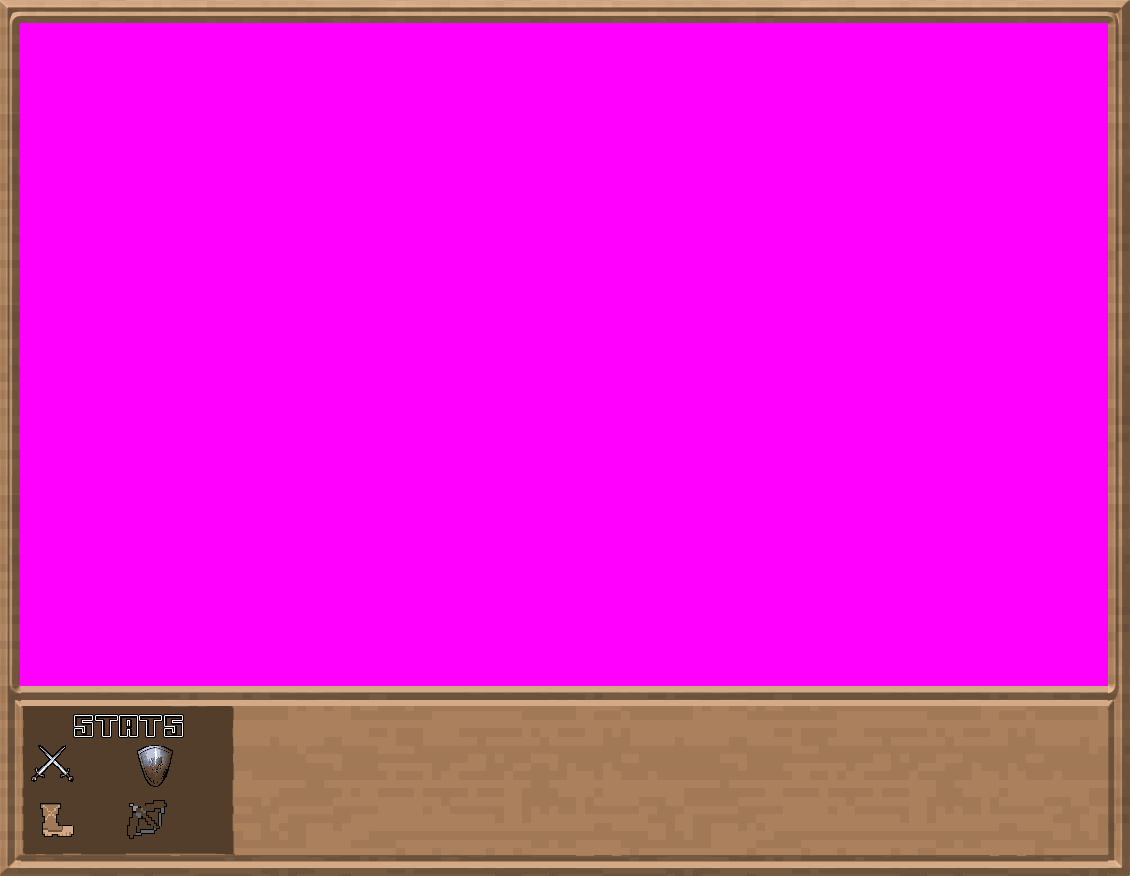
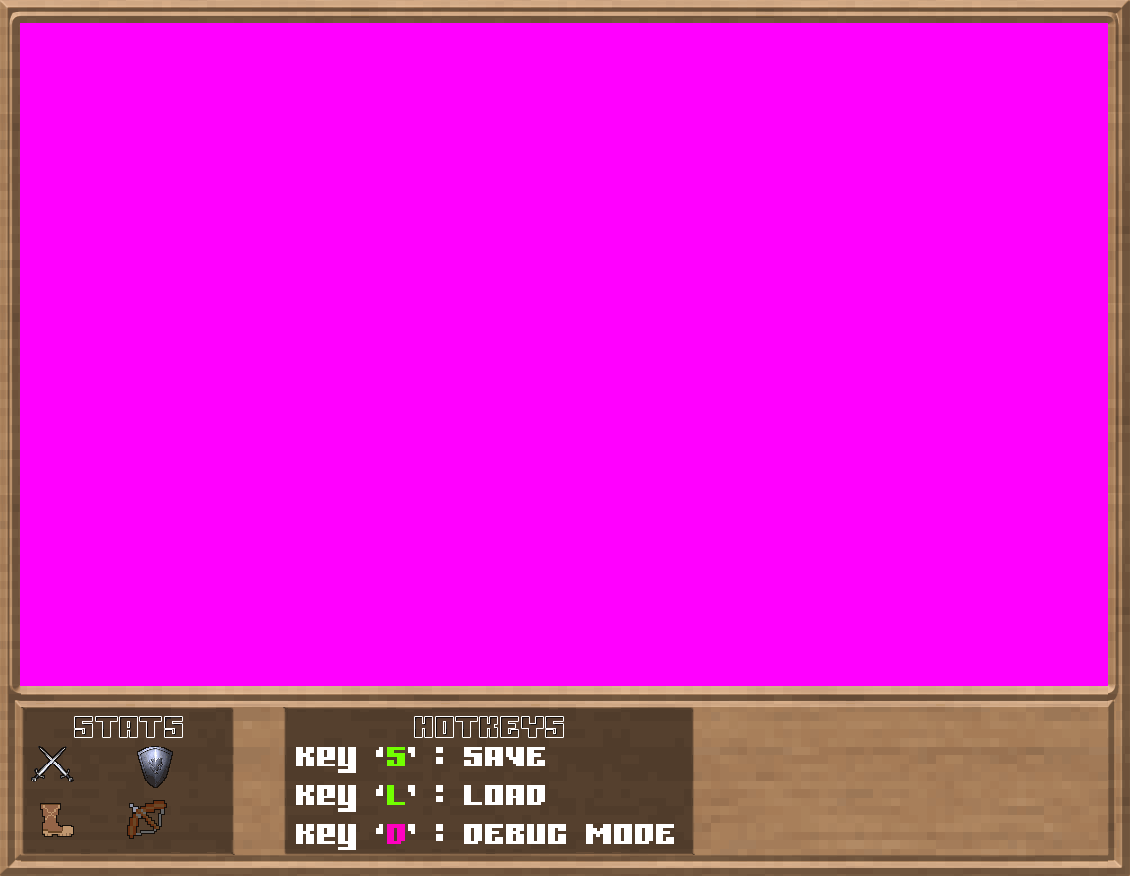
Important Updates
Added render offset
Added load level key
Improved focused unit stats rendering
Improved UI

Changed region(s): [[0.031, 0.7705, 0.9602, 0.9863]]

diff --git a/src/com/pxcode/entity/unit/Unit.java b/src/com/pxcode/entity/unit/Unit.java
@@ -42,13 +42,11 @@ public abstract class Unit implements GameObject {
 		possibilities = new ArrayList<>();
 		if (focusIndicator == null)
 			focusIndicator = Game.loadImage("res/focusIndicator.png");
-		setTeamIndex((byte)0);
+		setTeamIndex((byte) 0);
 		if (x > Game.WIDTH / 2) {
-			setTeamIndex((byte)1);
+			setTeamIndex((byte) 1);
 			flip();
 		}
-
-		Game.instance.hud.addUnitStats(this);
 	}
 
 	public Unit(int index, byte teamIndex, Stats stats, Point pos, BufferedImage sprite) {
@@ -62,7 +60,6 @@ public abstract class Unit implements GameObject {
 			focusIndicator = Game.loadImage("res/focusIndicator.png");
 		if (pos.x > Game.WIDTH / 2)
 			flip();
-		Game.instance.hud.addUnitStats(this);
 	}
 
 	public int getIndex() {
@@ -142,43 +139,48 @@ public abstract class Unit implements GameObject {
 		int healthToY = (int) ((100 - stats.getHealth()) * 48 * 0.01);
 		int fillY = 48 - healthToY;
 		healthToY += 21;
-
-		Rectangle rect = new Rectangle(pos.x + xOffset, pos.y + 20, 10, 50);
+		
+		Rectangle rect = new Rectangle(pos.x + xOffset, pos.y + 20 + Game.PLATFORM_Y_OFFSET, 10,
+				50 + Game.PLATFORM_Y_OFFSET);
 		// DRAWING BORDER with BLACK COLOR
 		renderer.renderRectangle(rect, 0x0);
 		// DRAWING BACKGROUND with RED COLOR
-		rect = new Rectangle(pos.x + xOffset + 1, pos.y + 21, 8, 48);
+		rect = new Rectangle(pos.x + xOffset + 1, pos.y + 21 + Game.PLATFORM_Y_OFFSET, 8, 48 + Game.PLATFORM_Y_OFFSET);
 		renderer.renderRectangle(rect, 0xFF0000);
 		// DRAWING HEALTH with GREEN COLOR
-		rect = new Rectangle(pos.x + xOffset + 1, pos.y + healthToY, 8, fillY);
+		rect = new Rectangle(pos.x + xOffset + 1, pos.y + healthToY + Game.PLATFORM_Y_OFFSET, 8,
+				fillY + Game.PLATFORM_Y_OFFSET);
 		renderer.renderRectangle(rect, 0x00FF00);
 	}
 
 	@Override
 	public void render(Renderer renderer) {
-		renderer.renderImage(teamIndicator, pos.x, pos.y);
-		renderer.renderImage(sprite, pos.x, pos.y);
+		renderer.renderImage(teamIndicator, pos.x, pos.y, 0, Game.PLATFORM_Y_OFFSET);
+		renderer.renderImage(sprite, pos.x, pos.y, 0, Game.PLATFORM_Y_OFFSET);
 		renderStats(renderer);
 		if (isFocused) {
-			renderer.renderImage(focusIndicator, pos.x, pos.y);
+			renderer.renderImage(focusIndicator, pos.x, pos.y, 0, Game.PLATFORM_Y_OFFSET);
 		}
 	}
 
 	@Override
 	public void update() {
-		Game.instance.hud.updateUnitStats(this);
+		if (isFocused)
+			Game.instance.hud.updateUnitStats(stats);
 	}
 
 	public void focus() {
 		isFocused = true;
 		unitFocused = true;
 		Unit.focusedUnit = this;
+		Game.instance.hud.addUnitStats(stats);
 	}
 
 	public void unfocus() {
 		isFocused = false;
 		unitFocused = false;
 		Unit.focusedUnit = null;
+		Game.instance.hud.removeUnitStats();
 	}
 
 	private void setPossibility(Game game, List<Tile> list, int index) {
@@ -262,7 +264,7 @@ public abstract class Unit implements GameObject {
 
 	public void die() {
 		isDead = true;
-		Game.instance.hud.removeUnitStats(this);
+		Game.instance.hud.removeUnitStats();
 	}
 
 	public void hurt(float damage) {

diff --git a/src/com/pxcode/graphic/HUD.java b/src/com/pxcode/graphic/HUD.java
@@ -10,18 +10,18 @@ import java.util.HashMap;
 import java.util.Map;
 
 import com.pxcode.entity.GameObject;
+import com.pxcode.entity.unit.Stats;
 import com.pxcode.entity.unit.Unit;
 import com.pxcode.main.Game;
 
 public class HUD implements GameObject {
 
 	private Map<BufferedImage, Point> unitsElements;
-	private Map<Integer, Unit> units;
+	private Stats unitStats;
 	private BufferedImage overlayImage;
 
 	public HUD() {
 		unitsElements = new HashMap<>();
-		units = new HashMap<>();
 		overlayImage = Game.loadImage("res/overlay.png");
 	}
 
@@ -33,26 +33,23 @@ public class HUD implements GameObject {
 		unitsElements.remove(sprite, coord);
 	}
 
-	public void updateUnitStats(Unit unit) {
-		units.remove(unit.getIndex());
-		units.put(unit.getIndex(), unit);
+	public void updateUnitStats(Stats stats) {
+		unitStats = stats;
 	}
 
-	public void addUnitStats(Unit unit) {
-		// add unit
-		units.put(unit.getIndex(), unit);
+	public void addUnitStats(Stats stats) {
+		unitStats = stats;
 	}
 
-	public void removeUnitStats(Unit unit) {
-		// delete unit
-		units.remove(unit.getIndex());
+	public void removeUnitStats() {
+		unitStats = null;
 	}
 
 	@Override
 	public void render(Renderer renderer) {
 		try {
 			unitsElements.forEach((sprite, point) -> {
-				renderer.renderImage(sprite, (int) point.getX(), (int) point.getY());
+				renderer.renderImage(sprite, (int) point.getX(), (int) point.getY(), 0, Game.PLATFORM_Y_OFFSET);
 			});
 			renderer.renderImage(overlayImage, 0, 0);
 		} catch (ConcurrentModificationException e) {
@@ -60,22 +57,19 @@ public class HUD implements GameObject {
 		}
 	}
 
-	public void renderStrings(Graphics2D g) {
-		try {
-			units.forEach((unitIndex, unit) -> {
-				// DRAWING THE UNIT INDEX
-				g.setColor(Color.BLACK);
-				g.drawString(String.valueOf(unit.getIndex()), unit.getX() + 55, unit.getY() + 100);
-				g.setColor(Color.RED);
-				g.drawString(String.valueOf("AD: " + (int) unit.getStats().getAttackDamage()), unit.getX() + 35, unit.getY() + 20);
-				g.setColor(Color.DARK_GRAY);
-				g.drawString(String.valueOf("AR: " + (int) unit.getStats().getArmor()), unit.getX() + 35, unit.getY() + 35);
-			});
-		} catch (Exception e) {
-			System.out.println(e.getMessage());
+	private void renderUnitStats(Graphics2D g) {
+		if (unitStats != null) {
+			g.setColor(Color.WHITE);
+			g.drawString(String.valueOf(unitStats.getAttackDamage()), 81, 765);
+			g.drawString(String.valueOf(unitStats.getArmor()), 189, 765);
+			g.drawString(String.valueOf(unitStats.getMovementRange()), 81, 820);
+			g.drawString(String.valueOf(unitStats.getAttackRange()), 189, 820);
 		}
 	}
 	
+	public void renderStrings(Graphics2D g) {
+		renderUnitStats(g);
+	}
 
 	@Override
 	public void update() {

diff --git a/src/com/pxcode/graphic/Renderer.java b/src/com/pxcode/graphic/Renderer.java
@@ -32,7 +32,7 @@ public class Renderer {
 		}
 	}
 
-	public void renderImage(BufferedImage image, int posX, int posY, int zoomX, int zoomY) {
+	public void renderImage(BufferedImage image, int posX, int posY, int zoomX, int zoomY, int offX, int offY) {
 		if (image == null)
 			return;
 		int[] imagePixels = ((DataBufferInt) image.getRaster().getDataBuffer()).getData();
@@ -40,17 +40,22 @@ public class Renderer {
 			for (int x = 0; x < image.getWidth(); x++) {
 				for (int zoomYIndex = 0; zoomYIndex < zoomY; zoomYIndex++) {
 					for (int zoomXIndex = 0; zoomXIndex < zoomX; zoomXIndex++) {
-						setPixel(imagePixels[y * image.getWidth() + x], (x * zoomX) + posX + zoomXIndex,
-								(y * zoomY) + posY + zoomYIndex);
+						setPixel(imagePixels[y * image.getWidth() + x], (x * zoomX) + posX + offX + zoomXIndex,
+								(y * zoomY) + posY + offY + zoomYIndex);
 					}
 				}
 			}
 		}
 	}
 
-	public void renderImage(BufferedImage image, int posX, int posY) {
-		renderImage(image, posX, posY, 1, 1);
+	public void renderImage(BufferedImage image, int posX, int posY, int offX, int offY) {
+		renderImage(image, posX, posY, 1, 1, offX, offY);
 	}
+
+	public void renderImage(BufferedImage image, int posX, int posY) {
+		renderImage(image, posX, posY, 1, 1, 0, 0);
+	}
+	
 
 	private void setPixel(int pixel, int posX, int posY) {
 		if (pixel != -0xFF01) {
@@ -60,7 +65,15 @@ public class Renderer {
 		}
 	}
 
+	private void setPixel(int pixel, int posX, int posY, int offX, int offY) {
+		if (pixel != -0xFF01) {
+			int index = (posY + offY) * view.getWidth() + posX + offX;
+			if (index < pixels.length && index >= 0)
+				pixels[index] = pixel;
+		}
+	}
+
 	public void clear() {
-		renderImage(Game.instance.map.getBackground(), 0, 0);
+		renderImage(Game.instance.map.getBackground(), 0, 0, 0, Game.PLATFORM_Y_OFFSET);
 	}
 }

diff --git a/src/com/pxcode/main/KeyHandler.java b/src/com/pxcode/main/KeyHandler.java
@@ -3,6 +3,8 @@ package com.pxcode.main;
 import java.awt.event.KeyEvent;
 import java.awt.event.KeyListener;
 
+import com.pxcode.entity.Map;
+
 public class KeyHandler implements KeyListener {
 
 	@Override
@@ -10,6 +12,9 @@ public class KeyHandler implements KeyListener {
 		switch (e.getKeyCode()) {
 		case KeyEvent.VK_S:
 			Game.instance.map.saveMap();
+			break;
+		case KeyEvent.VK_L:
+			Game.instance.map = new Map("map"+String.valueOf(Game.instance.map.getIndex()));
 			break;
 		case KeyEvent.VK_D:
 			Game.isDebug = !Game.isDebug;

diff --git a/src/com/pxcode/main/Game.java b/src/com/pxcode/main/Game.java
@@ -35,6 +35,8 @@ public class Game extends Canvas implements Runnable {
 	public static final int SCALE_HEIGHT = 7;
 	public static final int WIDTH = 1130;
 	public static final int HEIGHT = 910;
+	public static final int PLATFORM_Y_OFFSET = 14;
+	
 	public Renderer renderer;
 	public Map map;
 	public HUD hud;

diff --git a/src/com/pxcode/tiles/Tile.java b/src/com/pxcode/tiles/Tile.java
@@ -80,7 +80,7 @@ public abstract class Tile implements GameObject {
 
 	@Override
 	public void render(Renderer renderer) {
-		renderer.renderImage(tileSprite, x, y);
+		renderer.renderImage(tileSprite, x, y, 0, Game.PLATFORM_Y_OFFSET);
 	}
 
 	public void requestMouvement(Game game) {
